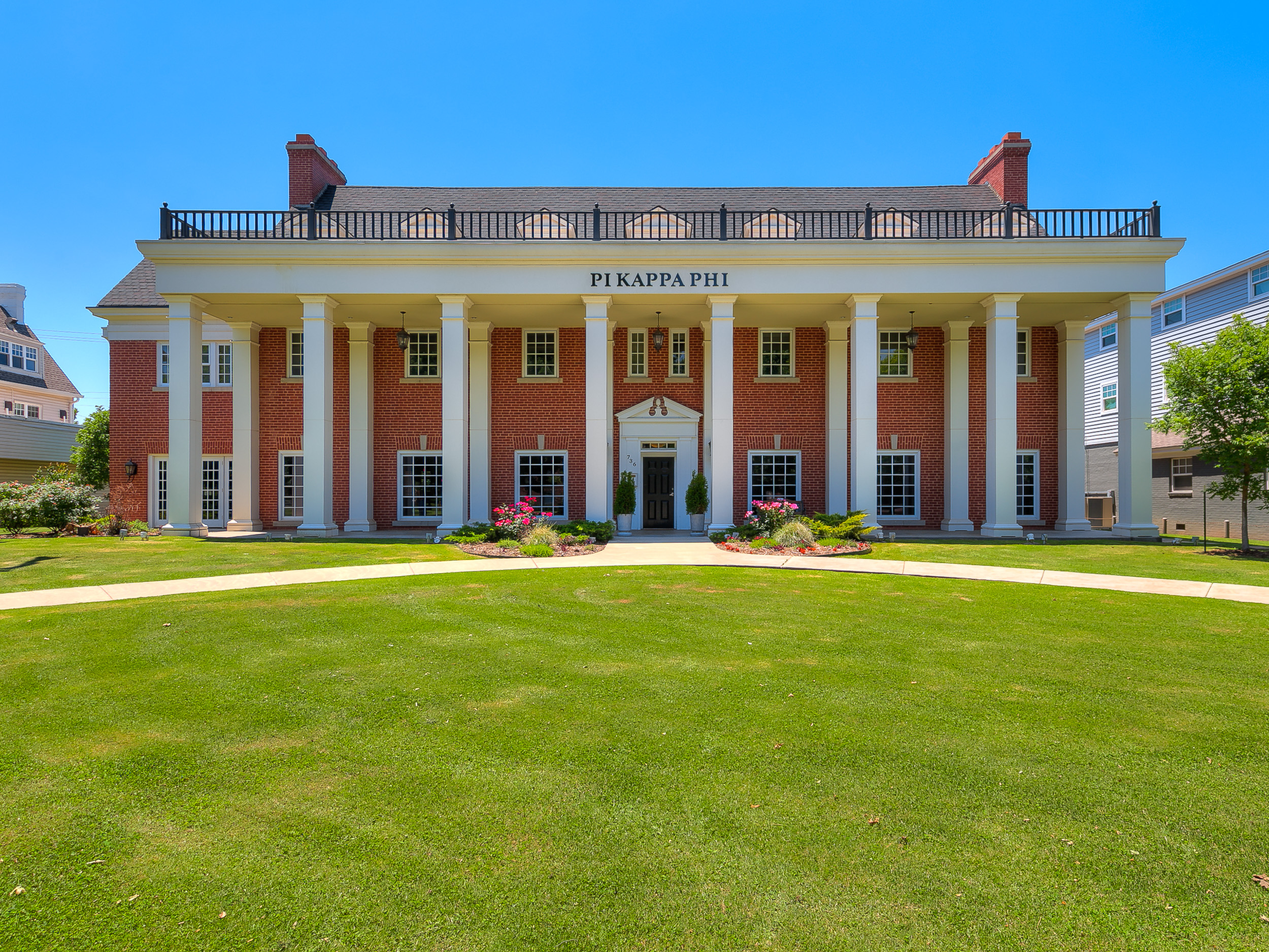
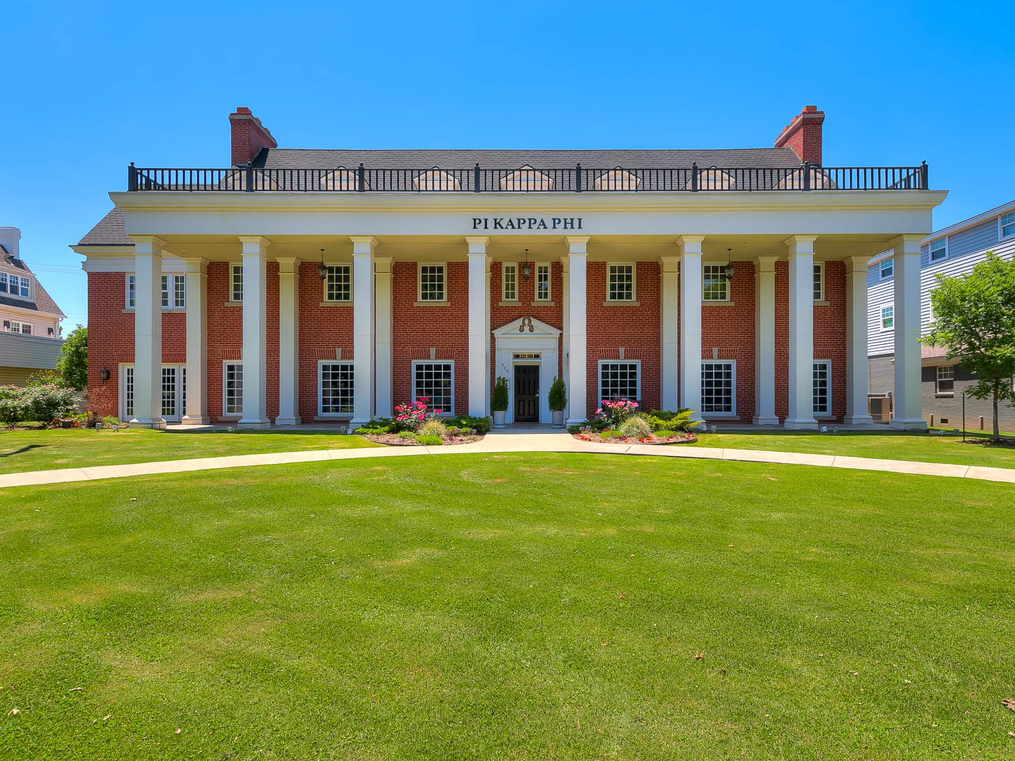
Place the three house photos on /housing, and cap WebP quality
house-front.jpg leads full-width and eager — it is the frame a parent
forms their impression from. house-livingroom.jpg and house-studyroom.jpg
sit in the two-column grid beneath it.

All three checked at full resolution against hard rule 5: no alcohol in
any frame, including shelves, tables and backgrounds. No identifiable
faces; the composite on the study-room wall is unreadable at every size
the site renders.

Sources resized 2500px/~2MB -> 2000px/<400KB to meet the rule in
src/assets/photos/README.md. Astro only generates up to 1920px, so no
delivered detail is lost.

PhotoBand now sets quality={65}. Astro passes no quality to sharp unless
told to, and sharp's WebP default of 80 was re-encoding the 1920w variant
*larger than its source* — 516KB behind a single eager hero. 65 cuts every
variant ~25% with no visible loss; verified on the 1280w hero.

Measured, and recorded in CLAUDE.md so it is not re-derived: a cleaner
source JPEG yields a *larger* WebP, so the under-400KB source rule helps
output size rather than fighting it.

Claude-Session: https://claude.ai/code/session_0123yRpfV9UQptJCMwJ6GjkB

diff --git a/CLAUDE.md b/CLAUDE.md
@@ -162,6 +162,31 @@ Setting `build.format: 'file'` caused two bugs at once: canonical tags published
 
 **Inline scripts in `<head>`** need an explicit `is:inline` directive when they carry attributes, or `astro check` emits a hint.
 
+**Astro passes no image quality to sharp unless you set one, and sharp's own
+WebP default is 80.** That is high enough that the 1920w variant re-encoded
+*larger than its source JPEG* — 516 KB from a 398 KB original, behind a single
+eager hero, against a ~142 KB whole-site first-paint budget. `PhotoBand.astro`
+now sets `quality={65}`, which cuts every variant ~25% with no visible loss
+(verified on the 1280w hero: smooth sky gradient, sharp lettering). The
+presets, for reference, are `low: 25, mid: 50, high: 80, max: 100`.
+
+Two things measured here so nobody re-derives them:
+
+- **A cleaner source JPEG produces a *larger* WebP, not a smaller one.** Tested
+  at 1920w/q65: a 399 KB q62 source → 392 KB, a 608 KB q80 source → 413 KB, a
+  984 KB q92 source → 425 KB. So the "under 400 KB" source rule in
+  `src/assets/photos/README.md` *helps* output size. Do not relax it hoping to
+  shrink the delivered image — it does the opposite.
+- **Remaining lever, if the hero is still too heavy:** drop `1920w` from
+  `widths` in `PhotoBand.astro`. The container maxes at 1152px, so this only
+  affects high-DPI screens, and it caps retina at 189 KB instead of 392 KB.
+  Not taken — it is a real quality trade-off on the one photo a parent judges
+  the house by.
+
+**sharp holds a read lock on a file it opened by path**, so
+`sharp('x.jpg').…toFile('x.jpg')` fails on Windows with `UNKNOWN: unknown error`.
+Read into a buffer first (`sharp(fs.readFileSync(p))`), then write.
+
 **Netlify injects a 33.7 KB script unless you stop it.** The "Netlify Drawer"
 (heads-up display) is added *post-build*, so `npm run build` still reports zero
 `.js` files while the live page loads
@@ -198,16 +223,16 @@ so this setting is the only lever there is.
 
 Hosting is decided (Netlify — see Decisions). What is left, in order:
 
-1. **Update the local remote** if it still says `oupikappweb` — GitHub redirects,
-   so a stale remote works silently and misleads:
-   `git remote set-url origin https://github.com/OUPikappWeb-AG/AlphaGammaSite.git`
+1. ~~**Update the local remote.**~~ Done — `origin` is
+   `https://github.com/OUPikappWeb-AG/AlphaGammaSite.git` (verified 2026-08-24).
 2. **Disable the Netlify Drawer** — Project configuration → Build & deploy →
    Continuous deployment → Collaboration tools. It injects 33.7 KB of JS and
    breaks hard rule 8. Dashboard-only; no `netlify.toml` equivalent.
-3. **Wire in the real numbers.** The owner holds GPA, service hours, Ability
-   Experience dollars, and photos. Single highest-leverage change on the site and
-   it needs no new code — only `chapter.json`, plus each figure's `asOf` and
-   `source`.
+3. **Wire in the real numbers.** ~~photos~~ — the three house photos are in
+   (2026-08-24). Still outstanding: GPA, service hours, Ability Experience
+   dollars. The owner holds all three. Single highest-leverage change left on the
+   site and it needs no new code — only `chapter.json`, plus each figure's
+   `asOf` and `source`.
 4. **Then** point `oupikapp.com` (spec §8: copy the exact records **Netlify**
    shows, never IPs from a doc — including this one — and do not touch MX
    records). Immediately afterwards, re-check the HSTS header for a forced
@@ -238,22 +263,49 @@ this site's host; that account matters only to ChapterLink now.
 
 Do not record these phases as done until the domain actually serves the site.
 
-Measured at end of session:
+Measured 2026-08-24 (5 pages now — `/history` and `/housing` shipped):
 
 - `TODO` strings reaching built HTML: **0** across all pages
 - JavaScript files emitted: **0** (both scripts inline)
-- First-paint payload: **~142 KB** uncompressed, 97 KB of it fonts
 - `astro check`: 0 errors / 0 warnings / 0 hints
-- Sitemap contains only `/` and `/join`; 404 correctly excluded
+- Exactly one `<h1>` per page; canonicals extensionless and slash-free
+- First-paint payload **on the text pages: ~142 KB** uncompressed, 97 KB of it
+  fonts. `/housing` is now much heavier — it carries three photographs, one of
+  them eager. See below.
+
+**`/housing` image weight**, after `quality={65}`:
+
+| Viewer | Eager hero (`house-front.jpg`) |
+|---|---|
+| Mobile, 640w | 39 KB |
+| Standard desktop, 1280w | 189 KB |
+| Retina desktop, 1920w | 392 KB |
+
+The other two photos are lazy. 392 KB on a retina hero is the accepted cost of
+the page whose entire job is showing a parent the building; the lever to halve
+it again is recorded under Gotchas and was deliberately not pulled.
 
 ### Built
 
-`index.astro`, `join.astro`, `404.astro`, `Base.astro`, all eight components, the full data layer (`chapter.json` + Zod schema + validated loader), `images.ts`, `url.ts`, `nav.ts`, favicon, robots.txt, OG card, apple-touch icon, and `netlify.toml` (2026-08-21).
+`index.astro`, `join.astro`, `404.astro`, `history.astro`, `housing.astro`,
+`Base.astro`, all eight components, the full data layer (`chapter.json` +
+`history.json` + `housing.json`, each with a Zod schema and validated loader),
+`images.ts`, `url.ts`, `nav.ts`, favicon, robots.txt, OG card, apple-touch icon,
+and `netlify.toml` (2026-08-21).
+
+**House photographs are in** (2026-08-24) — `house-front.jpg` as the eager
+lead, `house-livingroom.jpg` and `house-studyroom.jpg` in the two-column grid
+beneath it, wired through `src/data/housing.json`. All three were checked frame
+by frame at full resolution against hard rule 5: **no alcohol anywhere**,
+including shelves, tables and backgrounds. No identifiable faces — the chapter
+composite on the study-room wall is unreadable at every size the site renders.
+Sources were resized from 2500px/~2 MB to 2000px and under 400 KB to meet the
+rule in `src/assets/photos/README.md`.
 
 ### Not yet built
 
 - **Phase 2:** `/parents`, `/ability-experience` ← the two pages that do the actual persuading
-- **Phase 3:** `/about`, leadership, FAQ — plus `src/content/` collections, `leadership.json`, `faq.json`, `history.json`, `FAQ.astro`
+- **Phase 3:** `/about`, leadership, FAQ — plus `src/content/` collections, `leadership.json`, `faq.json`, `FAQ.astro`. (`history.json` is already built.)
 - **Phase 4:** `README.md`, `EDITING.md`, `HANDOFF.md`, `.github/workflows/semester-review.yml`, analytics, Search Console. **Spec calls these a deliverable, not an afterthought — do not skip.**
   - ⚠ The spec says "Vercel Analytics (free tier, one line in the layout)". That
     is off the table now. **Netlify Analytics is $9/mo per site, not free**, so
@@ -508,9 +560,11 @@ Order to follow: **deploy to a `*.netlify.app` URL → wire in the real numbers 
    - Email alias: unconfirmed.
    - The two-admin rule is met nowhere yet.
 4. ~~**Vercel Pro vs. Cloudflare Pages/Netlify.**~~ Resolved 2026-08-21 — **Netlify**, free tier, DNS staying at GoDaddy. See the Hosting decision table. This is a documented deviation from `BUILD-SPEC.md` §8, which assumes Vercel throughout; the spec's DNS warnings still apply verbatim, only the record values change. Note it also splits hosting away from ChapterLink, which is on Vercel — acceptable here because this site is `output: 'static'` with no adapter, no functions and no runtime, so there is nothing for the two to share.
-5. **Content still uncollected:** founding year, dues breakdown, comparison GPAs, retention/graduation rates, alumni outcomes, recruitment chair details, house address, Instagram handle, housing details, anti-hazing paragraph, and whether national HQ permits use of official marks. Full list in `BUILD-SPEC.md` §11.
+5. **Content still uncollected:** founding year, dues breakdown, comparison GPAs, retention/graduation rates, alumni outcomes, recruitment chair details, house address, Instagram handle, anti-hazing paragraph, and whether national HQ permits use of official marks. Full list in `BUILD-SPEC.md` §11.
 
-The owner has confirmed they hold photos, service hours, Ability Experience dollars, and GPA figures — they chose to wire them in later rather than during the last session.
+The owner has confirmed they hold service hours, Ability Experience dollars, and
+GPA figures — still to be wired in. **Photos are done** (2026-08-24): three house
+photographs are live on `/housing`.
 
 ---
 
